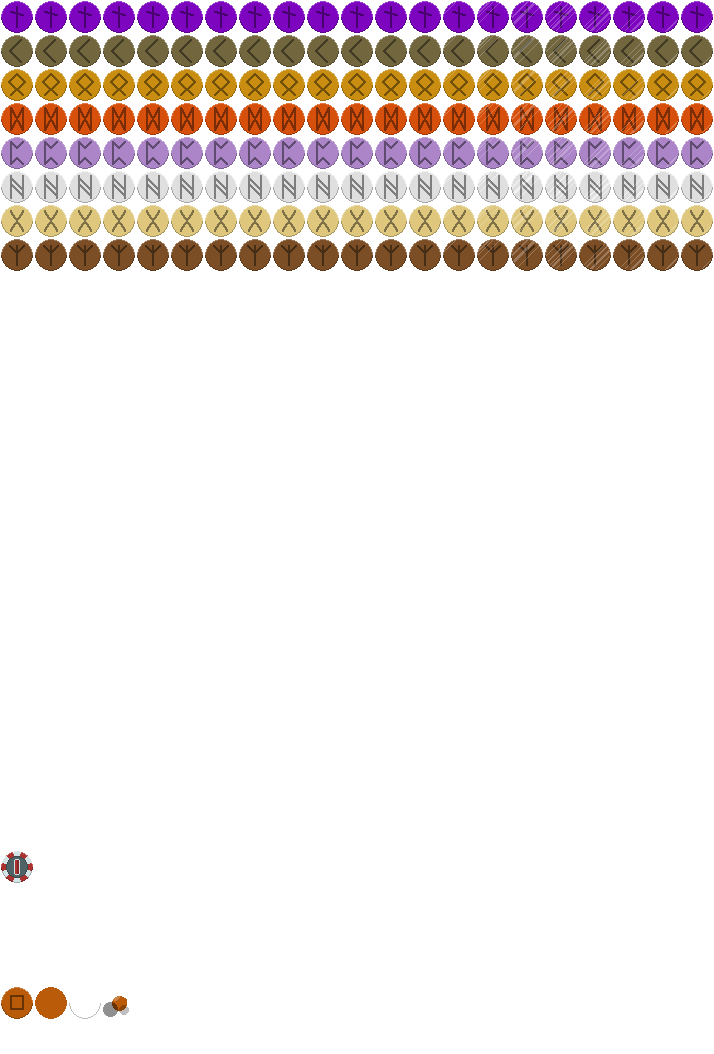
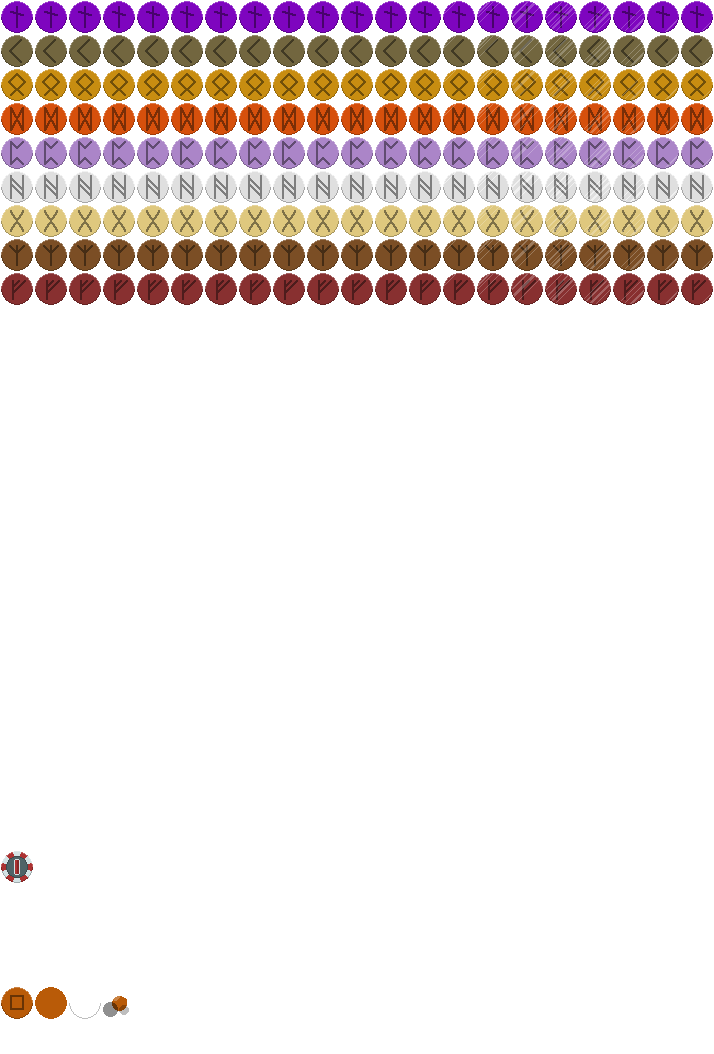
Add the Vein

Changed region(s): [[0.0, 0.2429, 1.0, 0.3036]]

diff --git a/web/addjokers.js b/web/addjokers.js
@@ -947,6 +947,14 @@ let blinds = [
     image_url: "img/bl/elk.png",
     rarity: "Boss Blind"
   },
+  {
+    name: "The Vein",
+    text: [
+      "Debuffs the leftmost Joker",
+    ],
+    image_url: "img/bl/vein.png",
+    rarity: "Boss Blind"
+  },
   // {
   //   name: "Violet Vessel",
   //   text: [
